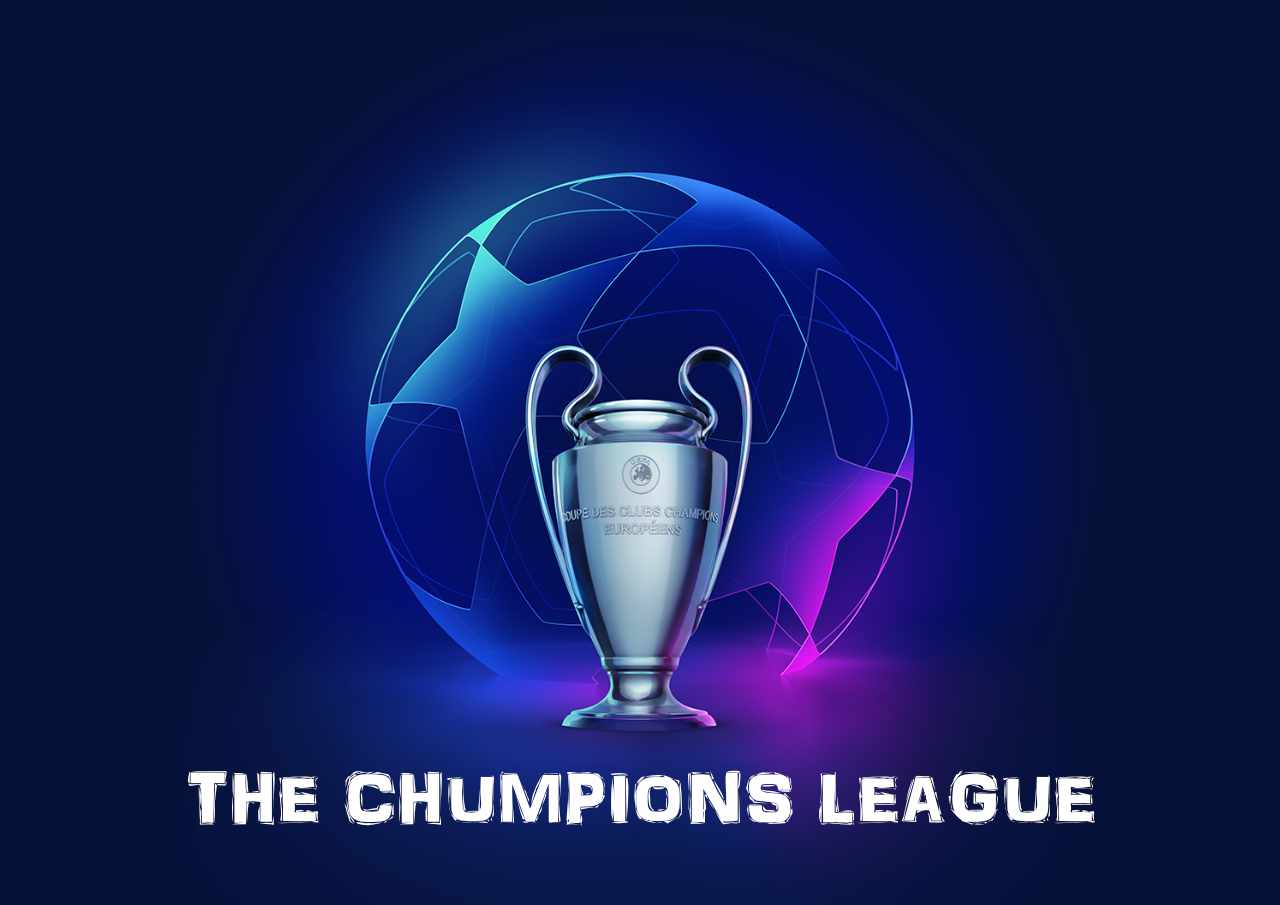
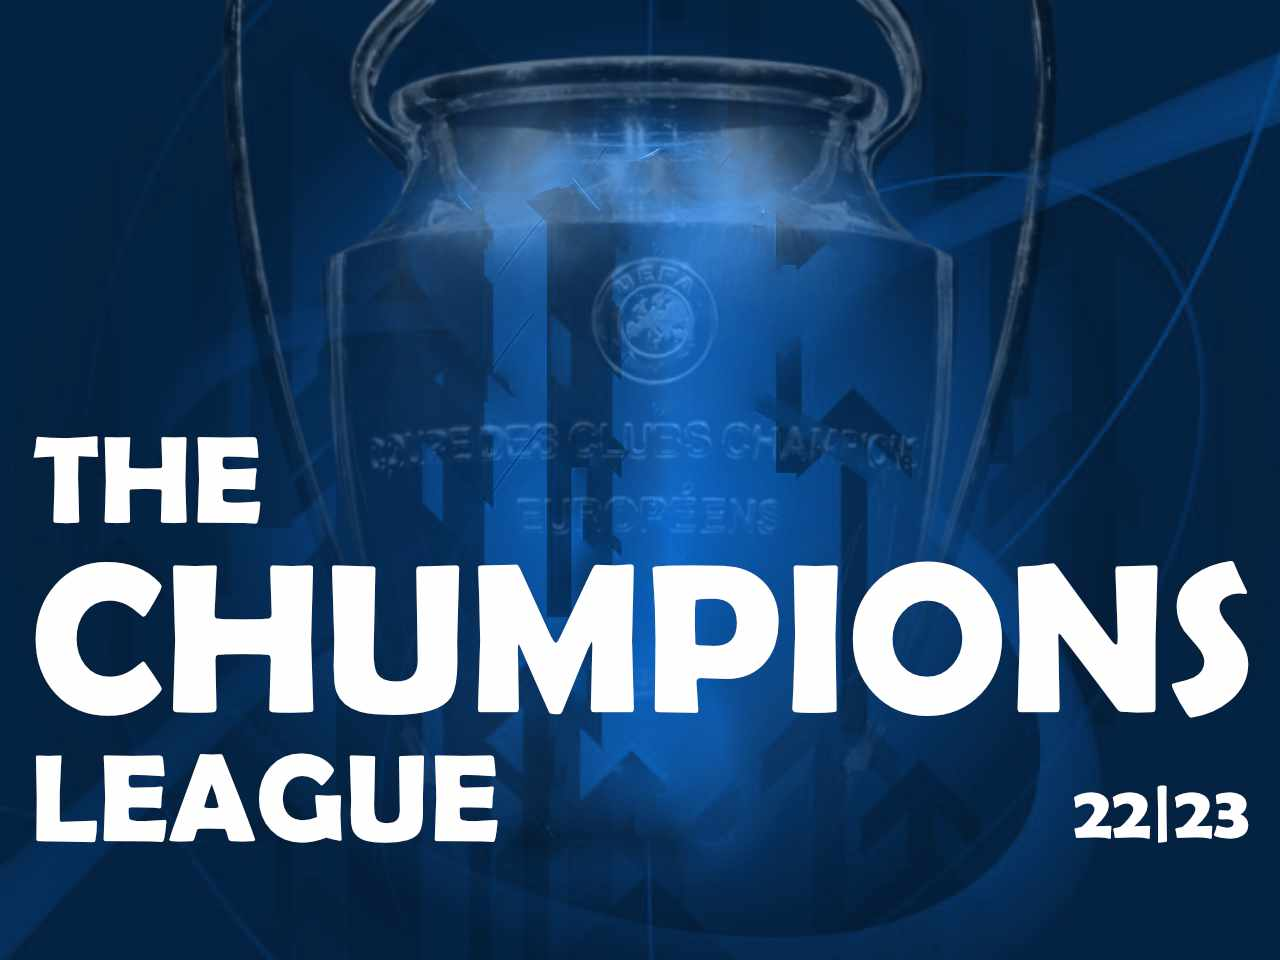
updates

diff --git a/index.html b/index.html
@@ -138,11 +138,11 @@
 
 		<h2 class="heading">Predictions / Results</h2>
 
-<!-- 		<table class="new-table"> 
+		<table class="new-table"> 
 		  <tr>
-		    <th class="new-teams">15.01.22</th> 
-		    <th class="new-prediction"><br /><br />Result</th>
-		    <th class="new-prediction"><br /><br />Result</th>
+		    <th class="new-teams">30.07.22</th> 
+		    <th class="new-prediction">Cardiff v Norwich<br /><br />Result</th>
+		    <th class="new-prediction">Sutton v Newport<br /><br />Result</th>
 		  </tr>
 		  <tr>
 		    <td>Daniel</td>
@@ -164,7 +164,7 @@
 		    <td class=""></td>
 		    <td class=""></td>
 		  </tr>
- 		</table> -->
+ 		</table>
 
 	
 

diff --git a/theChumpionsLeague/index.html b/theChumpionsLeague/index.html
@@ -12,14 +12,14 @@
 <body>
 
 	<header>
-		<div>
+<!-- 		<div>
 			<img class="adjust" src="../theChumpionsLeague/images/ChumpionsLeaguetrophy.jpg" width="330px" height="645px" alt="trophy image">
-		</div>
-
-<!-- 			<div>
-			<img src="images/chumpionsbackground.jpg" width="100%" height="100%" alt="trophy image">
-			<h1 class="mainTitle">The Chumpions League</h1>
 		</div> -->
+
+			<div>
+			<img src="images/chumpionsbackground.jpg" width="100%" height="100%" alt="trophy image">
+		<!-- 	<h1 class="mainTitle">The Chumpions League</h1> -->
+		</div>
 
 <div class="navbar">
 
